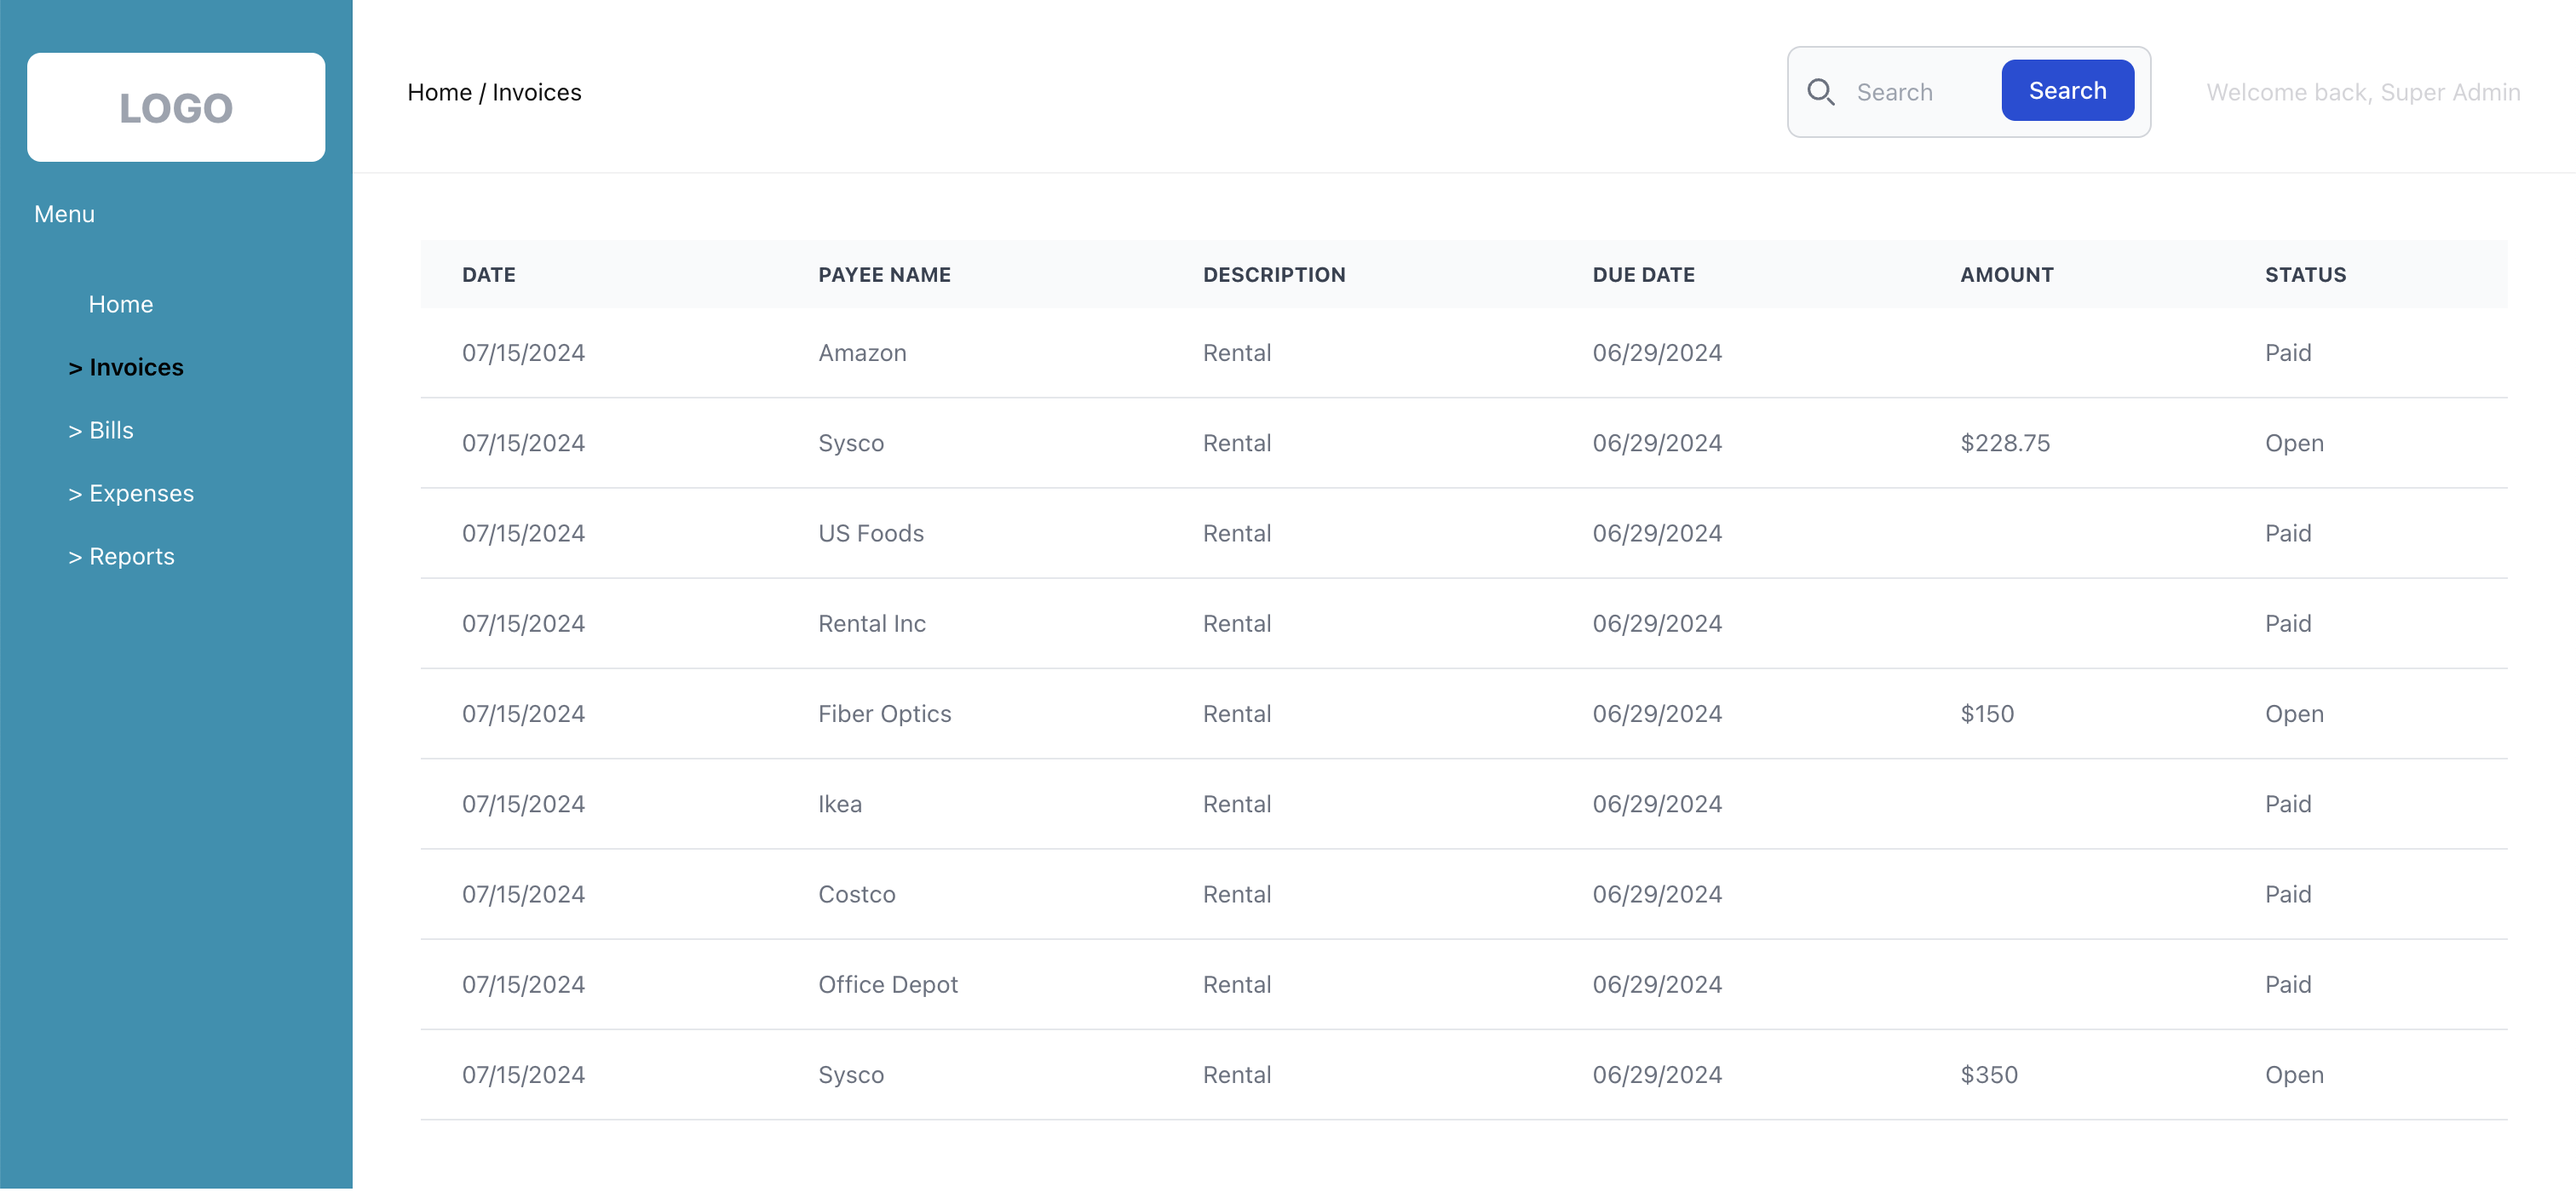
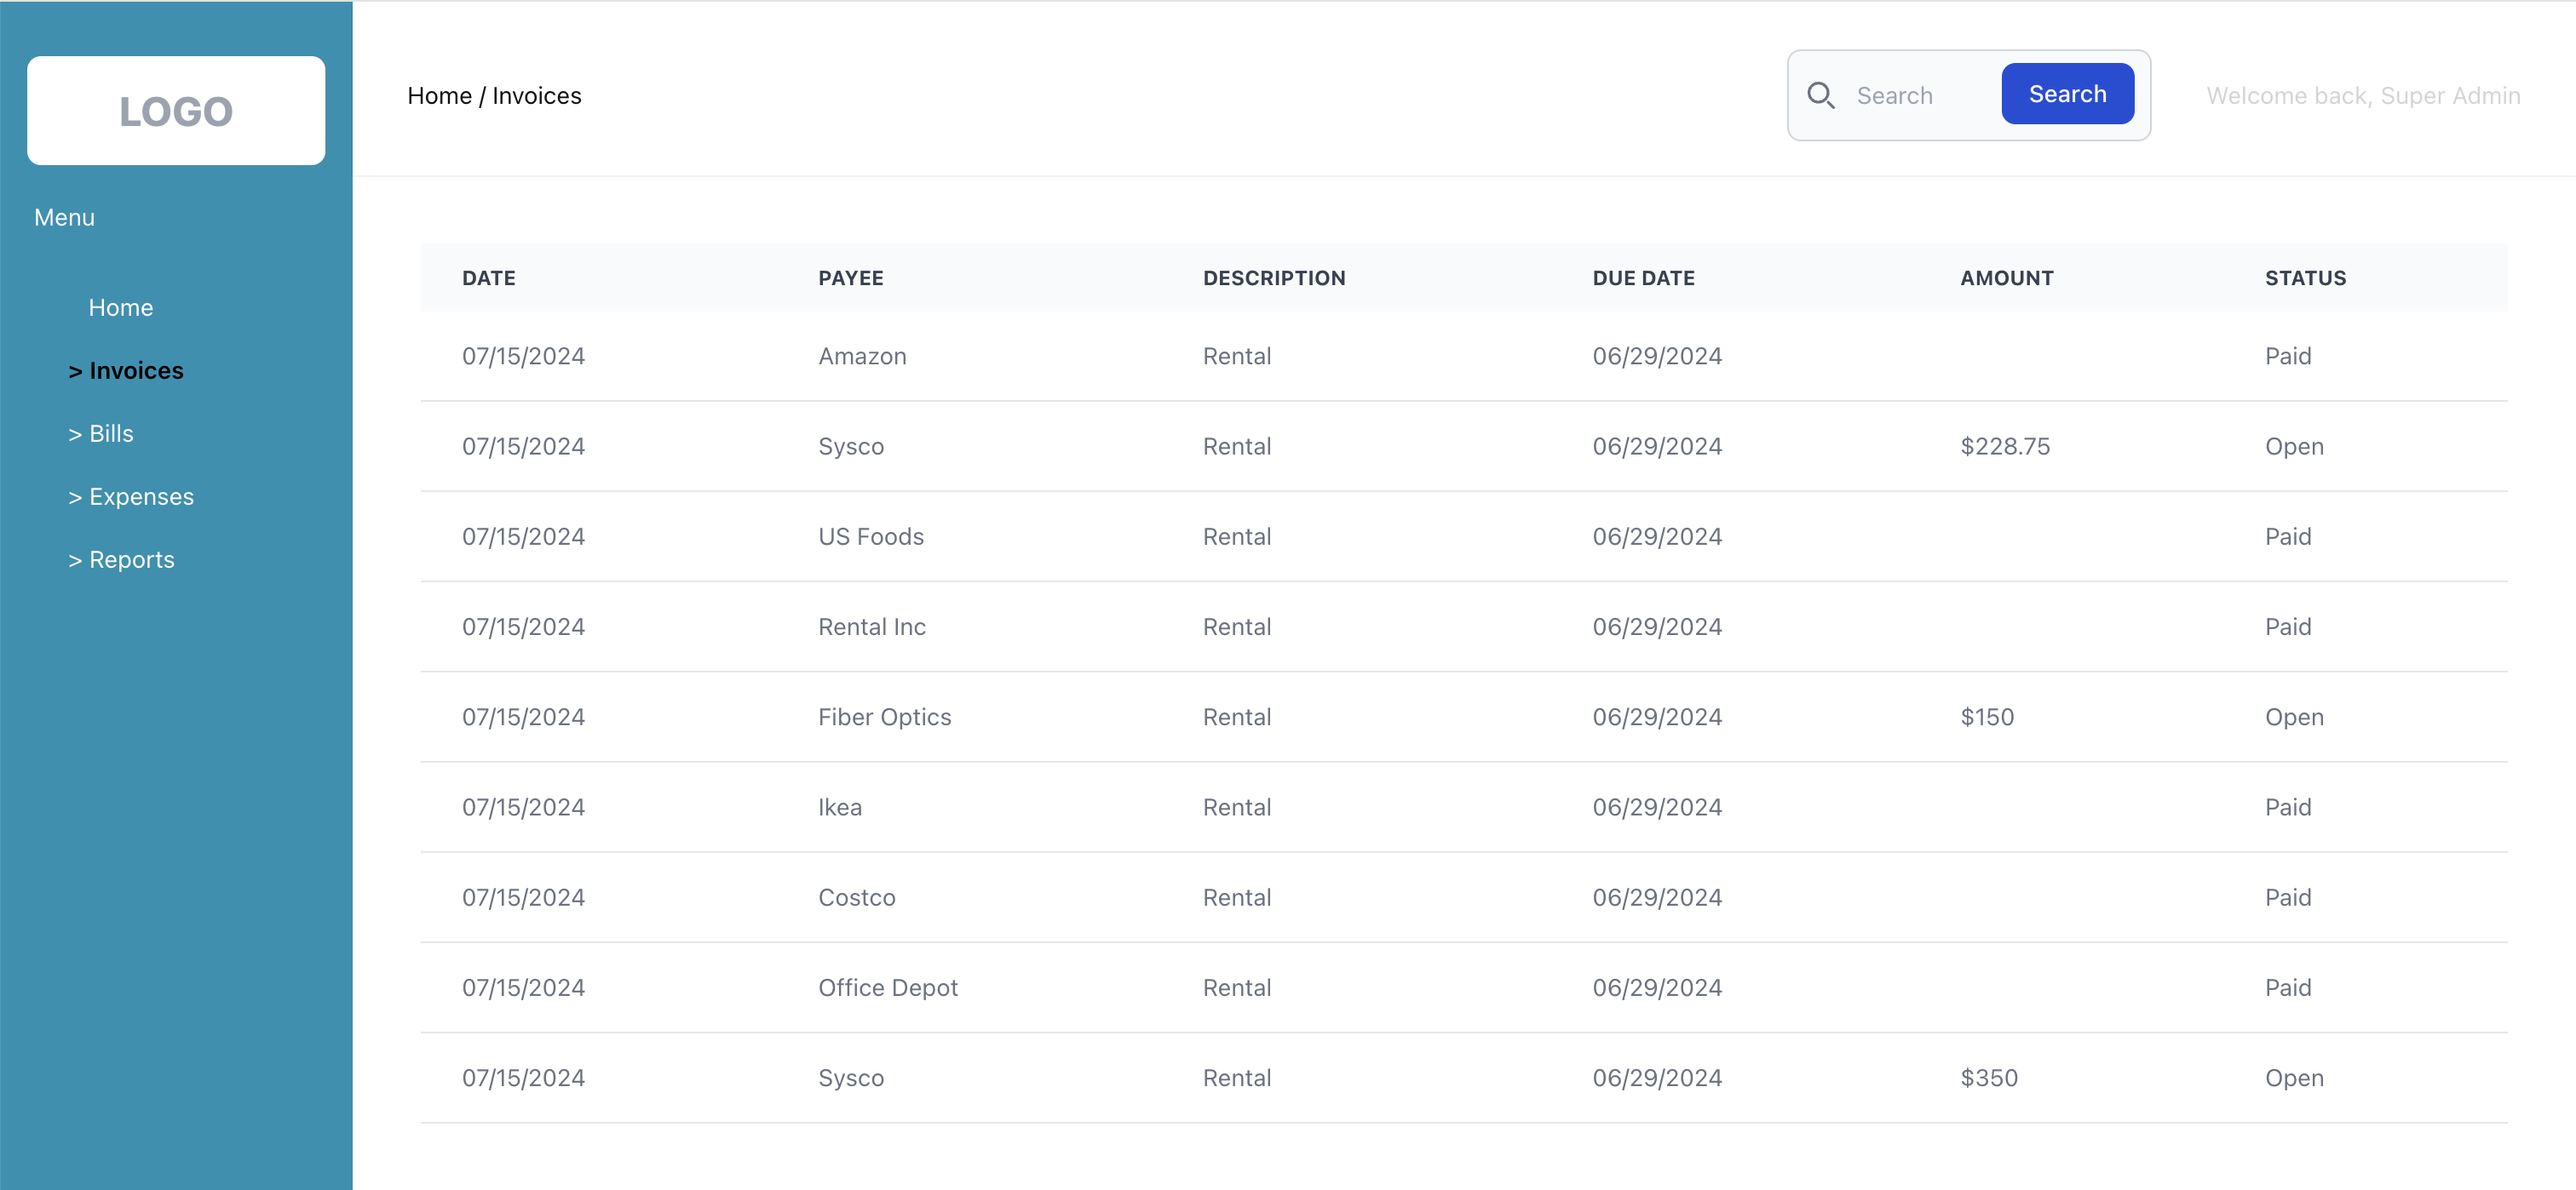
update screenshot

diff --git a/frontend/src/components/Invoices.tsx b/frontend/src/components/Invoices.tsx
@@ -15,7 +15,7 @@ export const Invoices = ({ data, viewDetails }: Props) => {
                             Date
                         </th>
                         <th scope="col" className="px-6 py-3">
-                            Payee Name
+                            Payee
                         </th>
                         <th scope="col" className="px-6 py-3">
                             Description
